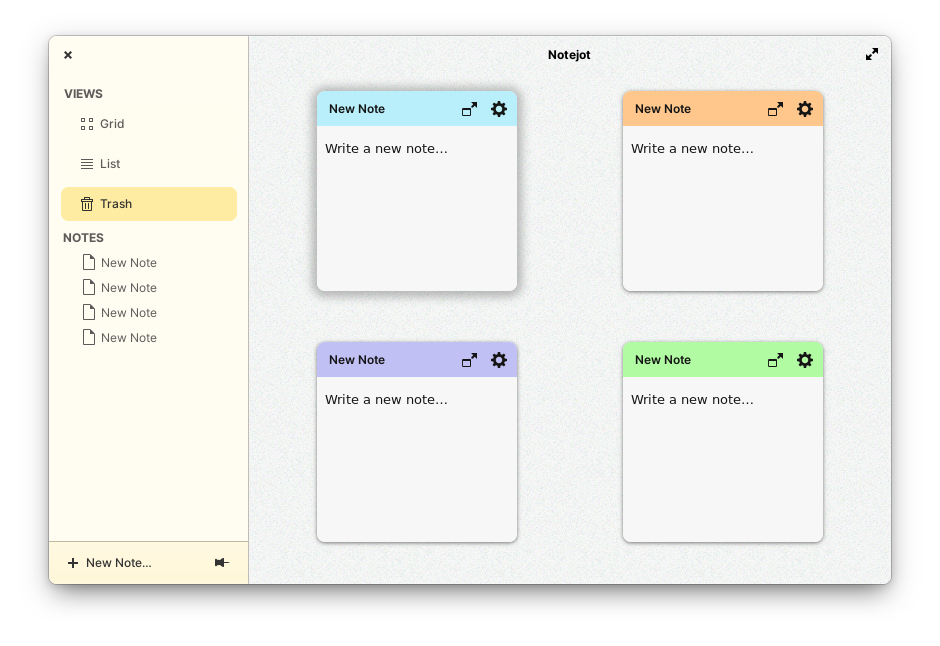
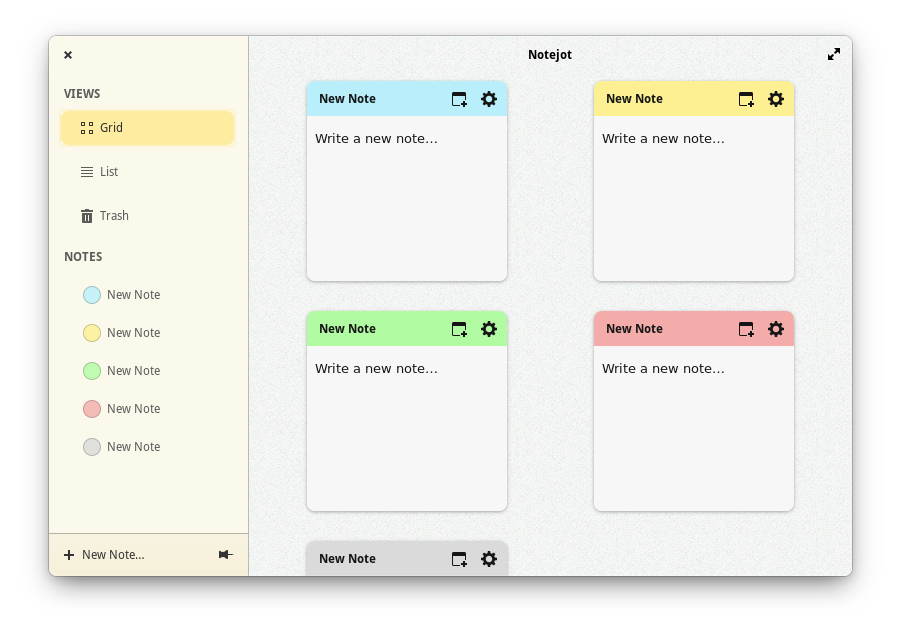
*

diff --git a/data/app.css b/data/app.css
@@ -68,7 +68,7 @@ window.unified decoration-overlay {
     background: transparent;
     box-shadow: none;
     -gtk-icon-shadow: none;
-    -gtk-text-shadow: none;
+    text-shadow: none;
 }
 
 .notejot-tbar .image-button {
@@ -98,7 +98,7 @@ window.unified decoration-overlay {
 
 .notejot-tbar .image-button:focus,
 .notejot-tbar .image-button:hover {
-    background: shade(#FAFAFA, 0.85);
+    background: shade(@theme_bg_color, 0.85);
 }
 
 .notejot-sbutton {
@@ -168,7 +168,7 @@ window.unified decoration-overlay {
 }
 
 .notejot-tview text selection {
-    background: shade(mix (@accent, #FAFAFA, 0.90), 0.88);
+    background: shade(mix (@accent, @theme_bg_color, 0.90), 0.88);
     color: @fg_color;
 }
 
@@ -196,16 +196,16 @@ window.unified decoration-overlay {
 
 .notejot-abutton:focus,
 .notejot-abutton:hover {
-  background: shade(#FAFAFA, 0.88);
+  background: shade(@theme_bg_color, 0.88);
 }
 
 .notejot-abar .image-button:focus,
 .notejot-abar .image-button:hover {
-  background: shade(#FAFAFA, 0.88);
+  background: shade(@theme_bg_color, 0.88);
 }
 
 .notejot-sabar {
-  background-color: shade(mix (@accent, #FAFAFA, 0.90), 0.95);
+  background-color: shade(mix (@accent, @theme_bg_color, 0.90), 0.95);
   border-top: 1px solid alpha(black, 0.25);
   padding: 6px;
   box-shadow: none;
@@ -226,7 +226,7 @@ window.unified decoration-overlay {
 .notejot-sabar .image-button:hover,
 .notejot-sabutton:focus,
 .notejot-sabutton:hover {
-  background: shade(mix (@accent, #FAFAFA, 0.90), 0.88);
+  background: shade(mix (@accent, @theme_bg_color, 0.90), 0.88);
 }
 
 .notejot-sabar box {
@@ -268,13 +268,14 @@ window.unified decoration-overlay {
     background: #F7F7F7;
 }
 
-.notejot-sidecat treeview {
+.notejot-sidecat {
   border: none;
+  background: mix (@accent, @theme_bg_color, 0.90);
+  padding-top: 6px;
 }
 
-.notejot-column,
-.notejot-column treeview {
-    background: mix (@accent, #FAFAFA, 0.90);
+.notejot-column {
+    background: mix (@accent, @theme_bg_color, 0.90);
     box-shadow: none;
 }
 
@@ -308,7 +309,7 @@ window.unified decoration-overlay {
 }
 
 .notejot-side-tbar {
-    background: mix (@accent, #FAFAFA, 0.90);
+    background: mix (@accent, @theme_bg_color, 0.90);
     box-shadow: none;
     border-bottom: none;
     margin: 0 7px;
@@ -375,16 +376,17 @@ window.unified decoration-overlay {
 .notejot-note-list:focus,
 .notejot-note-list:hover {
     border-radius: 8px;
-    background-color: shade(mix (@accent, #FAFAFA, 0.90), 0.88);
+    background-color: shade(mix (@accent, @theme_bg_color, 0.90), 0.88);
+    border: 1px solid mix (@accent, @theme_bg_color, 0.90);
     color: @fg_color;
 }
 
 .notejot-side-button {
-    background: mix (@accent, #FAFAFA, 0.90);
-    border: 1px solid mix (@accent, #FAFAFA, 0.90);
+    background: mix (@accent, @theme_bg_color, 0.90);
+    border: 1px solid mix (@accent, @theme_bg_color, 0.90);
     box-shadow: none;
     padding: 8px;
-    margin: 0;
+    margin: 4px 0;
     border-radius: 8px;
     opacity: 0.8;
 }
@@ -417,6 +419,22 @@ window.unified decoration-overlay {
 
 .notejot-side-button image {
   margin-left: 0.8rem;
+}
+
+.notejot-sidebar-dbg {
+  padding: 10px;
+  margin: 0 12px;
+  border-radius: 8px;
+  box-shadow: none;
+  color: @theme_fg_color;
+  opacity: 0.8;
+}
+
+.notejot-sidebar-dbg:active,
+.notejot-sidebar-dbg:checked,
+.notejot-sidebar-dbg:focus,
+.notejot-sidebar-dbg:hover  {
+  background: shade(mix (@accent, @theme_bg_color, 0.90), 0.88);
 }
 
 .notejot-lview:backdrop {
